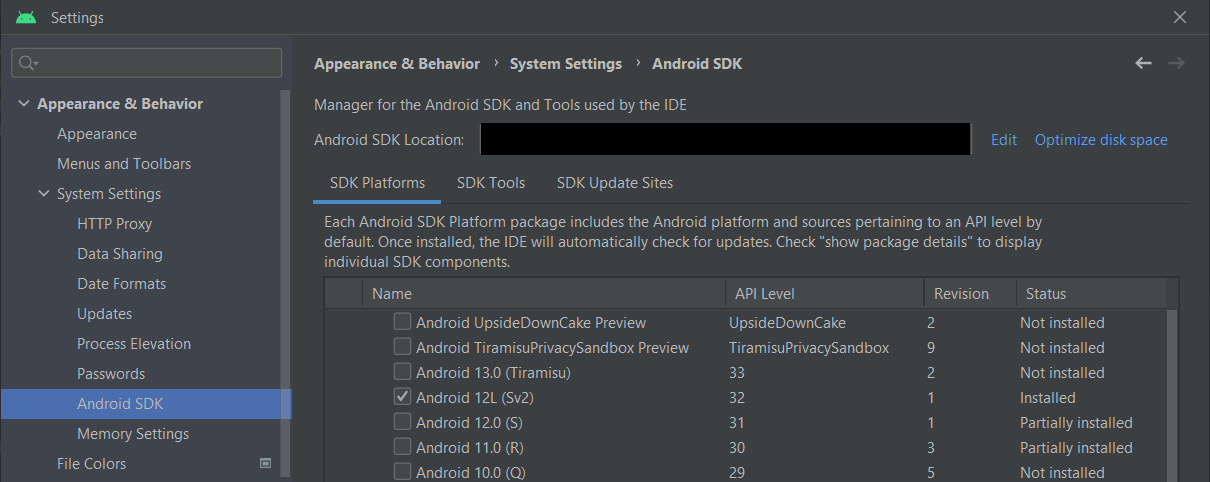
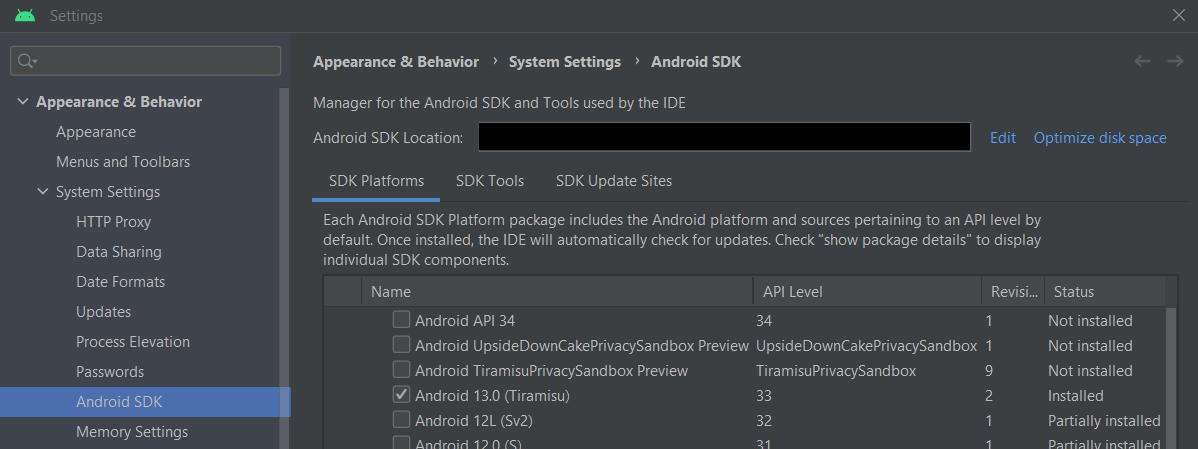
Update SDK Platforms text. Update photos (#9848)
* Update SDK Platforms text. Update photos

* Try to fix link for Markdown Screenshots

* Revert to docs link

* Try Unciv in file path

diff --git a/docs/Developers/Building-Locally.md b/docs/Developers/Building-Locally.md
@@ -16,12 +16,12 @@ By the end of this guide, you will have Unciv running locally from code, so you 
 -   Gradle will attempt the initial sync. If this is your first time with Android Studio, this may require you to accept the Android Build-tools licenses, which works differently on every device, so search for your OS-specific solution.
     -   A new install may not be able to do the initial sync - this comes in the form of `Unable to find method ''void org.apache.commons.compress.archivers.zip.ZipFile.<init>(java.nio.channels.SeekableByteChannel)''` errors when you try to sync. If you have this problem go into File > Settings > Appearance & Behavior > System Settings > Android SDK
         - Click "SDK Platforms"
-        - Click "Android 12L (Sv2)"
-        ![image](/docs/assets/Android_SDK_Platforms.png)
+        - Click "Android 13 (Tiramisu)"
+        ![image](/Unciv/assets/Android_SDK_Platforms.png)
         - Click "SDK Tools"
         - Select "Show Package Details" in the bottom right
         - Choose version 33.0.2 under "Android SDK Build-Tools"
-        ![image](/docs/assets/Android_SDK_Tools.png)
+        ![image](/Unciv/assets/Android_SDK_Tools.png)
         - Click "Apply"
         - Restart Android Studio
 -   In Android Studio, Run > Edit configurations (be sure the Gradle sync is finished successfully first).
@@ -31,7 +31,7 @@ By the end of this guide, you will have Unciv running locally from code, so you 
     -   Set the module classpath (the box to the right of the Java selection) to `Unciv.desktop.main` (`Unciv.desktop` for Bumblebee or below), main class to `com.unciv.app.desktop.DesktopLauncher` and `<repo_folder>\android\assets\` as the Working directory, OK to close the window
         - It _may_ be useful to set some VM options - activate the field in the run config editor with Alt-V or via the Modify Options menu, then add `-Xmx4096m -Xms256m -XX:MaxMetaspaceSize=256m` to allow a debugged game a little more memory. Or, use the `-DnoLog=` or `-DonlyLog=` options to control console logging. See the [Log.kt](https://github.com/yairm210/Unciv/blob/master/core/src/com/unciv/utils/Log.kt) comments for details.
         - If you get a `../../docs/uniques.md (No such file or directory)` error that means you forgot to set the working directory!
-        ![image](/docs/assets/Desktop_Build.png)
+        ![image](/Unciv/assets/Desktop_Build.png)
 -   Select the Desktop configuration (or however you chose to name it) and click the green arrow button to run! Or you can use the next button -the green critter with six legs and two feelers - to start debugging.
 -   A few Android Studio settings that are recommended:
     - Going to Settings > Version Control > Commit and turning off 'Before Commit - Analyze code'
